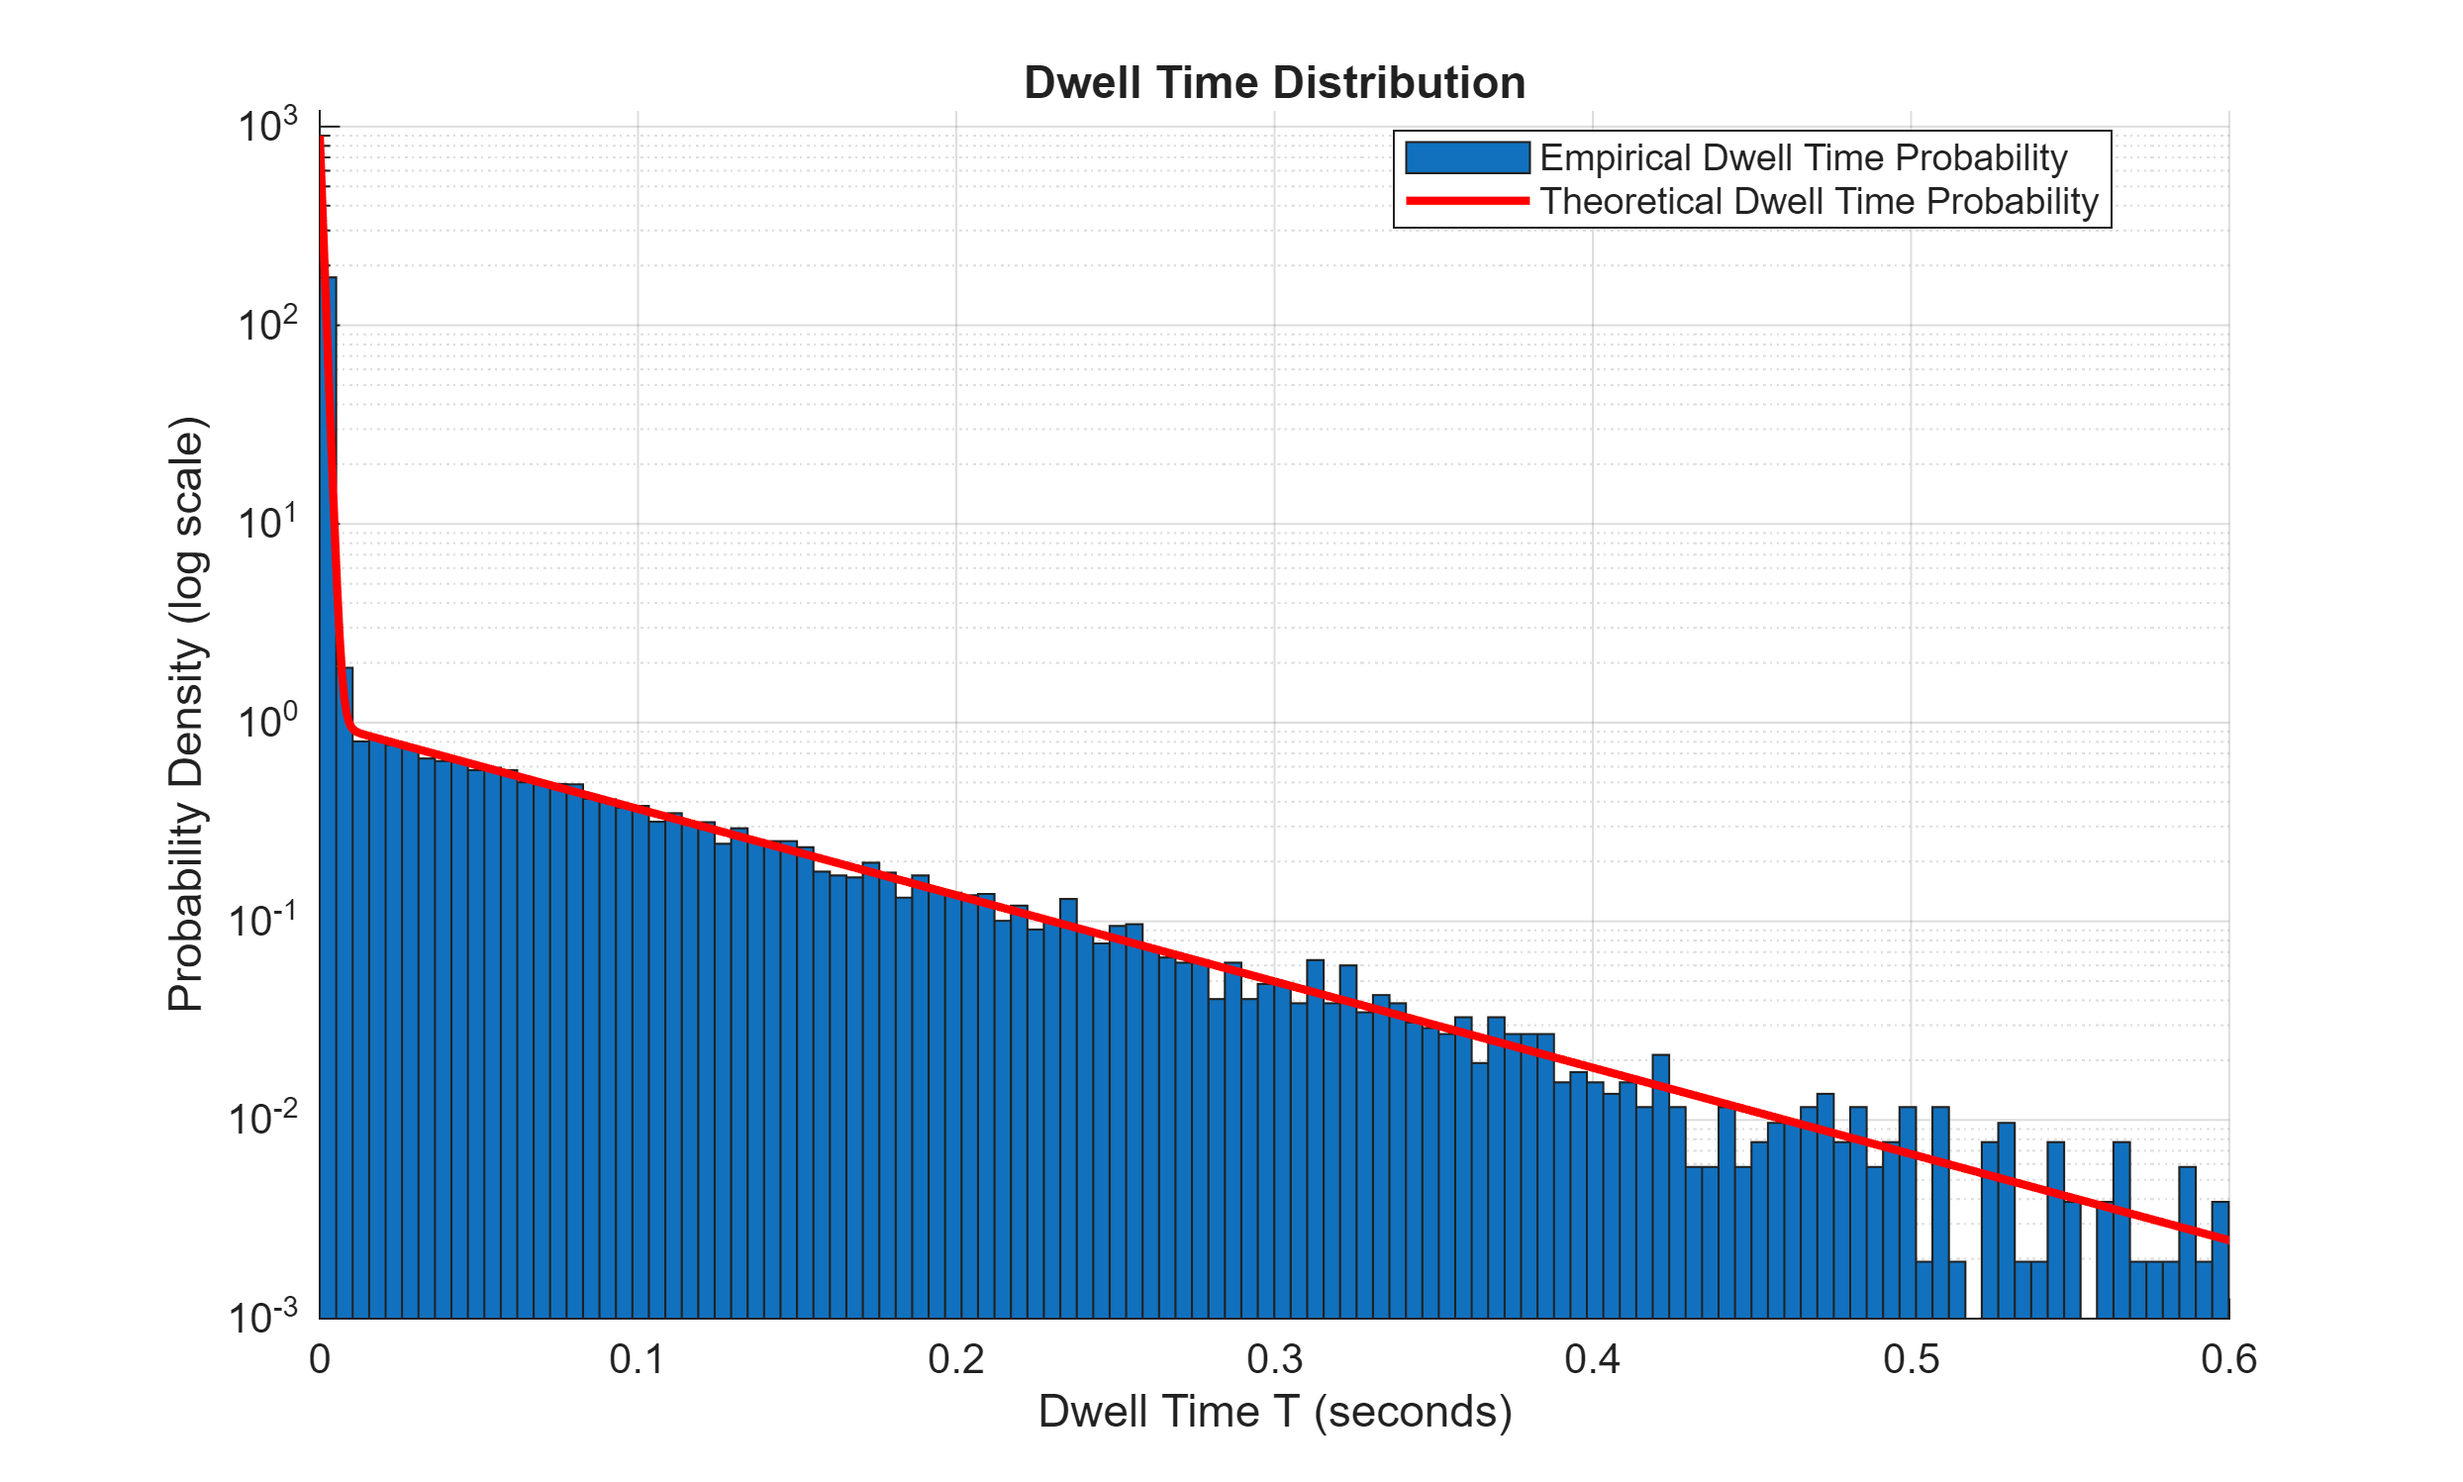
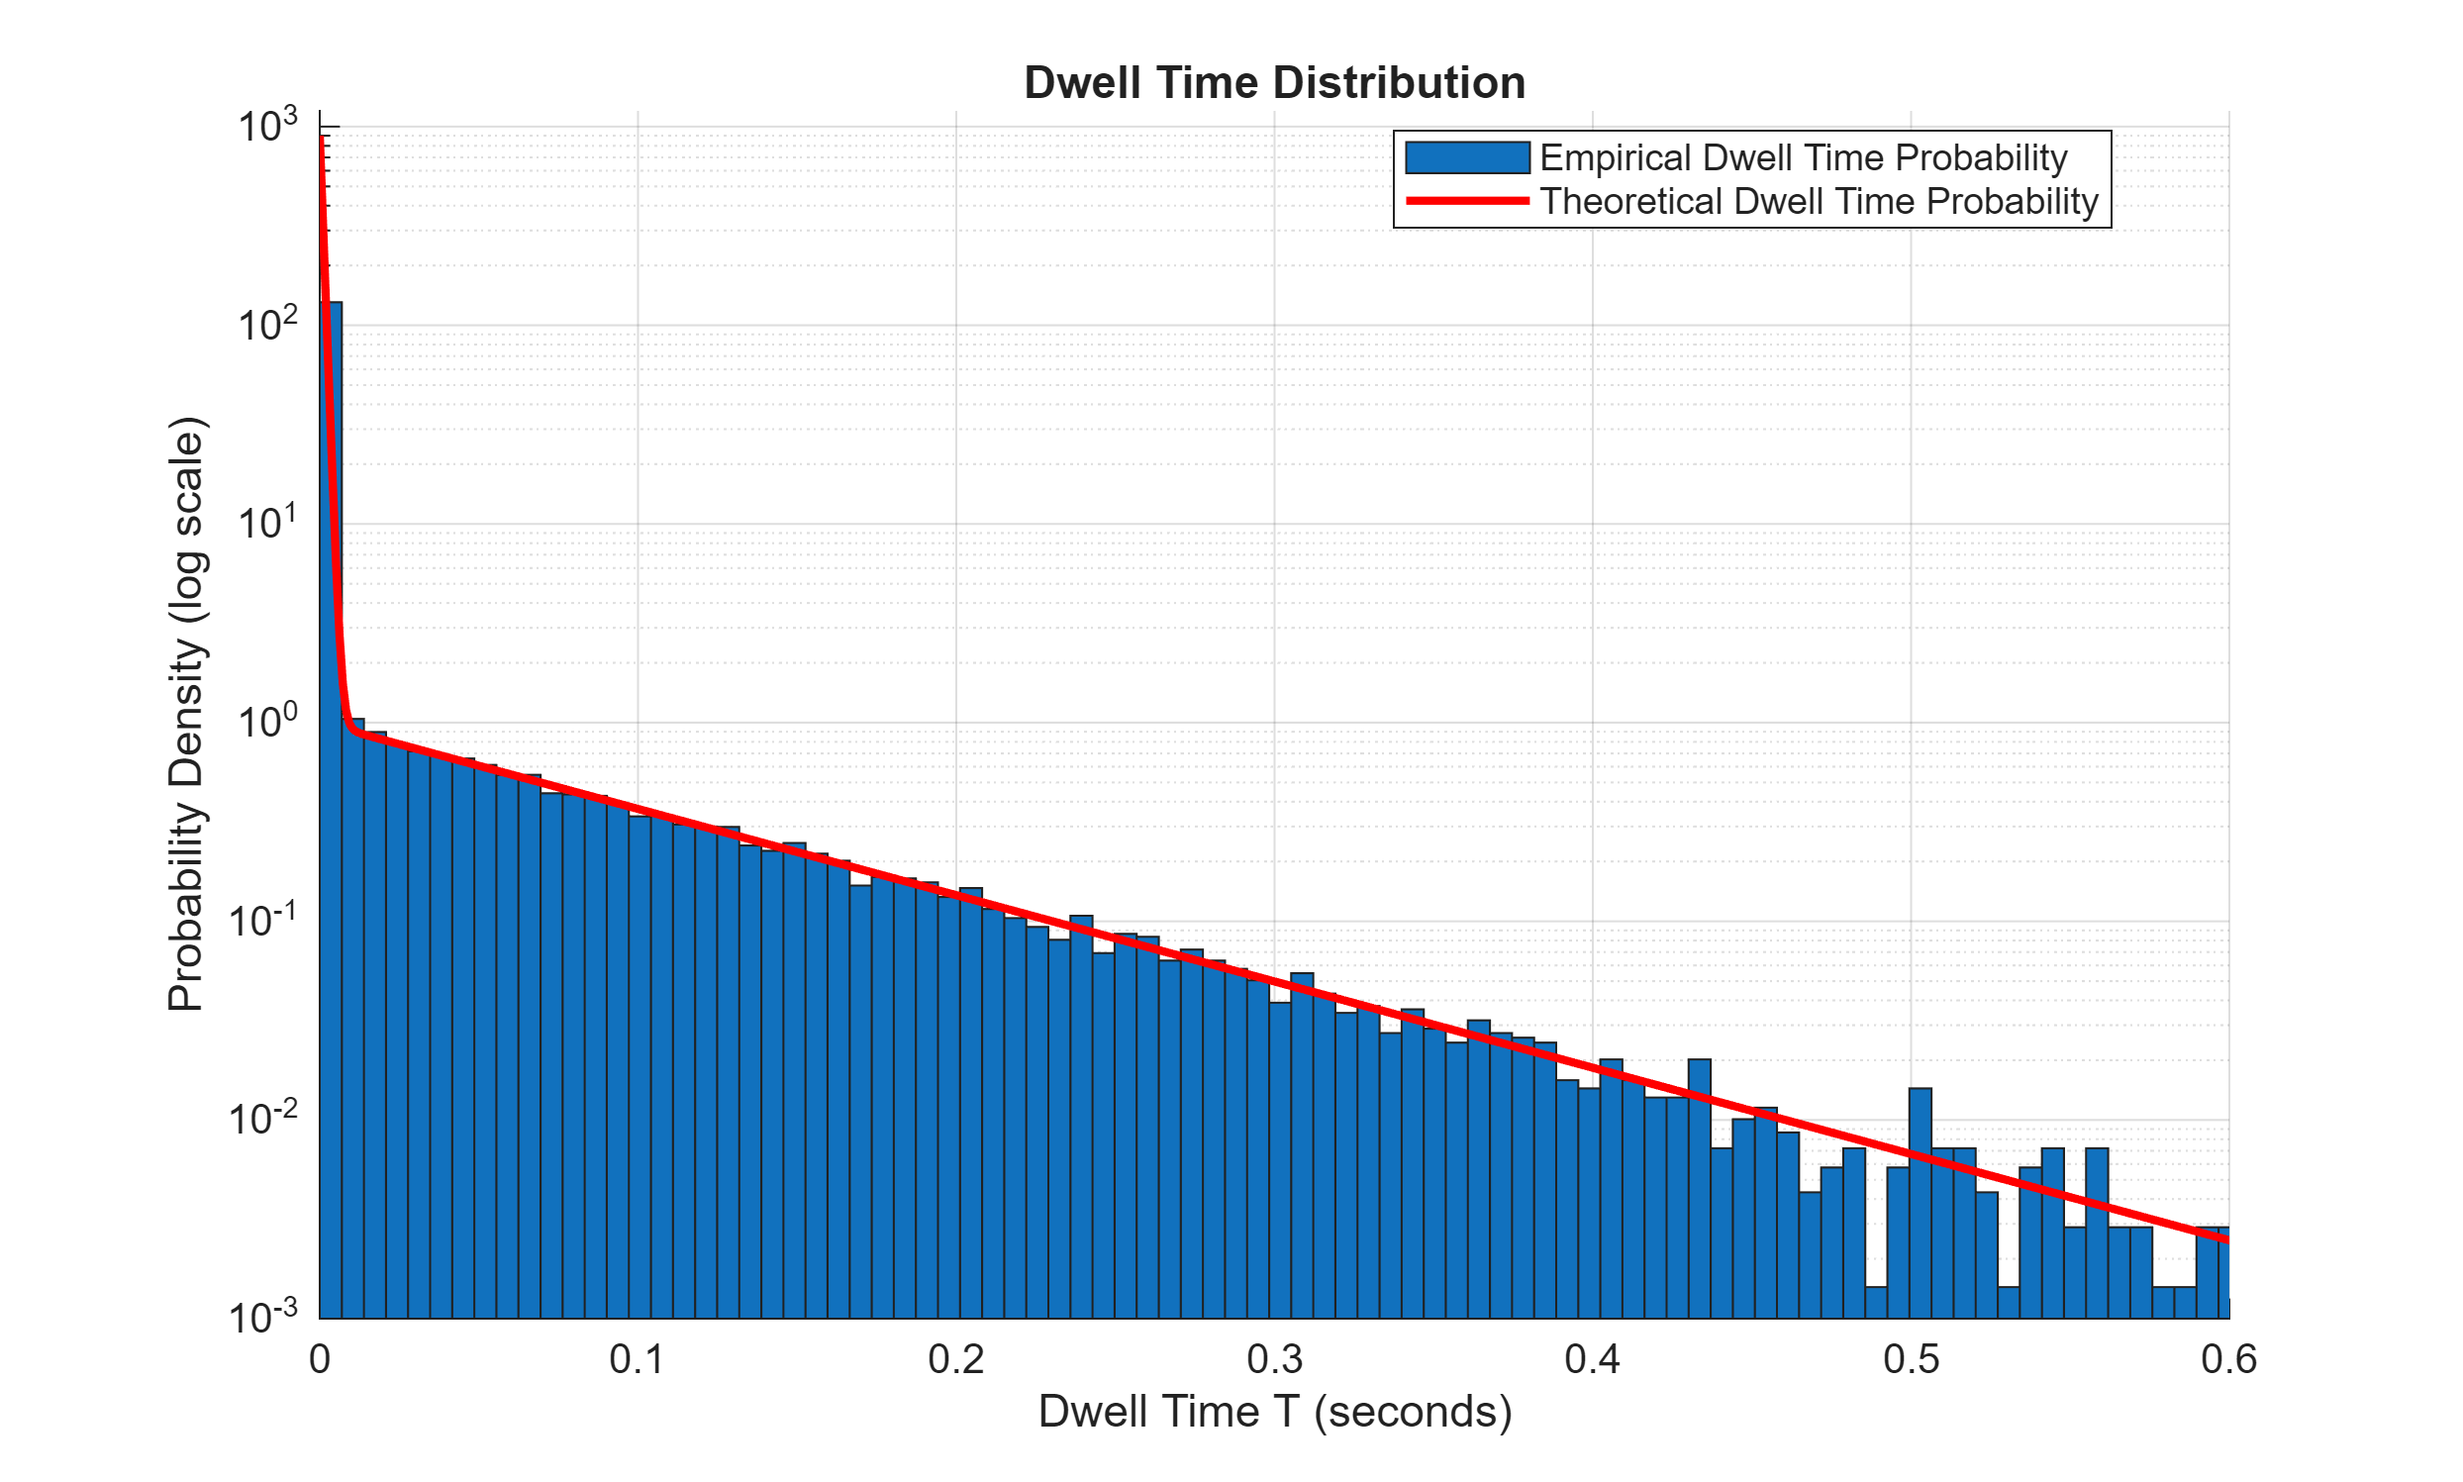
max/min cores

Changed region(s): [[0.1238, 0.4609, 0.9285, 0.8911], [0.1238, 0.1844, 0.1547, 0.3073]]

diff --git a/HW2/APPM4560_HW2_Problem5.m b/HW2/APPM4560_HW2_Problem5.m
@@ -21,6 +21,9 @@ emp_mean = mean(z_sim);
 emp_std = std(z_sim);
 emp_ratio = emp_std / emp_mean;
 
+min_core = min(C);
+max_core = max(C);
+
 fig = figure();
 fig.Theme = 'light';
 hold on;
